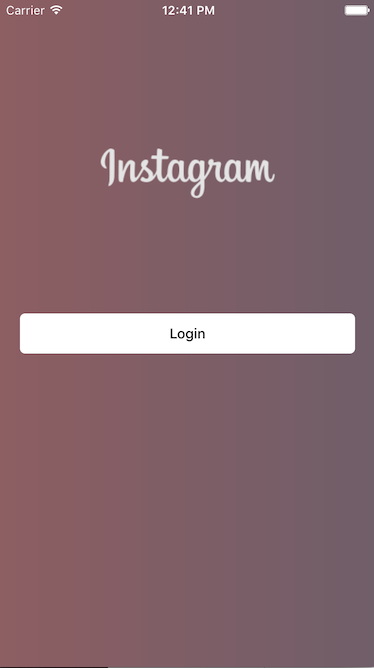
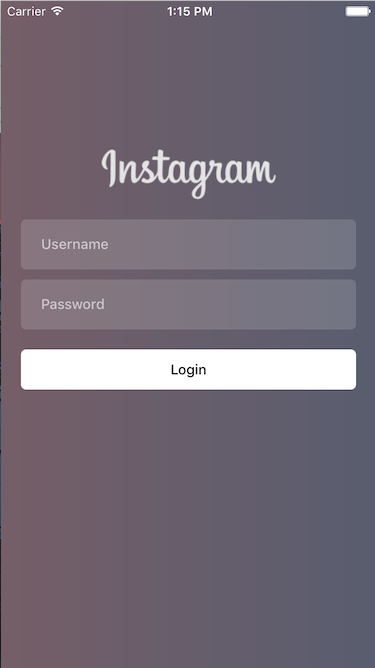
Added back in login form textfields for demonstration purposes. They are non-functional.

diff --git a/Instagram/Application/Login/Views/JKHLoginFormView.m b/Instagram/Application/Login/Views/JKHLoginFormView.m
@@ -13,6 +13,8 @@
 @interface JKHLoginFormView ()
 
 @property (nonatomic, strong) UIImageView *logoImageView;
+@property (nonatomic, strong) JKHLoginTextField *usernameTextField;
+@property (nonatomic, strong) JKHLoginTextField *passwordTextField;
 @property (nonatomic, strong) JKHLoginButton *loginButton;
     
 @end
@@ -30,14 +32,20 @@
         self.translatesAutoresizingMaskIntoConstraints = NO;
         self.backgroundColor = [UIColor clearColor];
         self.logoImageView = [[UIImageView alloc] initWithImage:[UIImage imageNamed:@"logo_white"]];
+        self.usernameTextField = [[JKHLoginTextField alloc] initWithType:JKHLoginTextFieldTypeEmail];
+        self.passwordTextField = [[JKHLoginTextField alloc] initWithType:JKHLoginTextFieldTypePassword];
         self.loginButton = [[JKHLoginButton alloc] initWithFrame:CGRectZero];
         
+        self.usernameTextField.placeholder = @"Username";
+        self.passwordTextField.placeholder = @"Password";
         [self.loginButton addTarget:self action:@selector(loginButtonTapped:) forControlEvents:UIControlEventTouchUpInside];
         
         self.logoImageView.contentMode = UIViewContentModeScaleAspectFit;
         self.logoImageView.translatesAutoresizingMaskIntoConstraints = NO;
         
         [self addSubview:self.logoImageView];
+        [self addSubview:self.usernameTextField];
+        [self addSubview:self.passwordTextField];
         [self addSubview:self.loginButton];
     }
     return self;
@@ -46,10 +54,6 @@
 - (void)updateConstraints {
     [super updateConstraints];
     
-    [self mas_makeConstraints:^(MASConstraintMaker *make) {
-        make.height.equalTo(@120);
-    }];
-    
     [self.logoImageView mas_makeConstraints:^(MASConstraintMaker *make) {
         make.centerY.equalTo(self.mas_centerY).with.offset(-120);
         make.leading.equalTo(self.mas_leading).with.offset(100);
@@ -57,7 +61,20 @@
         make.height.equalTo(@50);
     }];
     
+    [self.usernameTextField mas_makeConstraints:^(MASConstraintMaker *make) {
+        make.top.equalTo(self.logoImageView.mas_bottom).with.offset(20);
+        make.leading.equalTo(self.mas_leading).with.offset(20);
+        make.trailing.equalTo(self.mas_trailing).with.offset(-20);
+    }];
+    
+    [self.passwordTextField mas_makeConstraints:^(MASConstraintMaker *make) {
+        make.top.equalTo(self.usernameTextField.mas_bottom).with.offset(10);
+        make.leading.equalTo(self.usernameTextField.mas_leading);
+        make.trailing.equalTo(self.usernameTextField.mas_trailing);
+    }];
+    
     [self.loginButton mas_makeConstraints:^(MASConstraintMaker *make) {
+        make.top.equalTo(self.passwordTextField.mas_bottom).with.offset(20);
         make.leading.equalTo(self.mas_leading).with.offset(20);
         make.trailing.equalTo(self.mas_trailing).with.offset(-20);
         make.bottom.equalTo(self.mas_bottom);

diff --git a/README.md b/README.md
@@ -9,7 +9,7 @@ This project was built to experiment with the following:
 1. Programmatic Views (No Storyboarding)
 2. Programmatic Auto Layout Constraints
 3. IGListKit
-4. CoreAnimation
+4. Animating Background Gradient
 
 See the example below:
 
